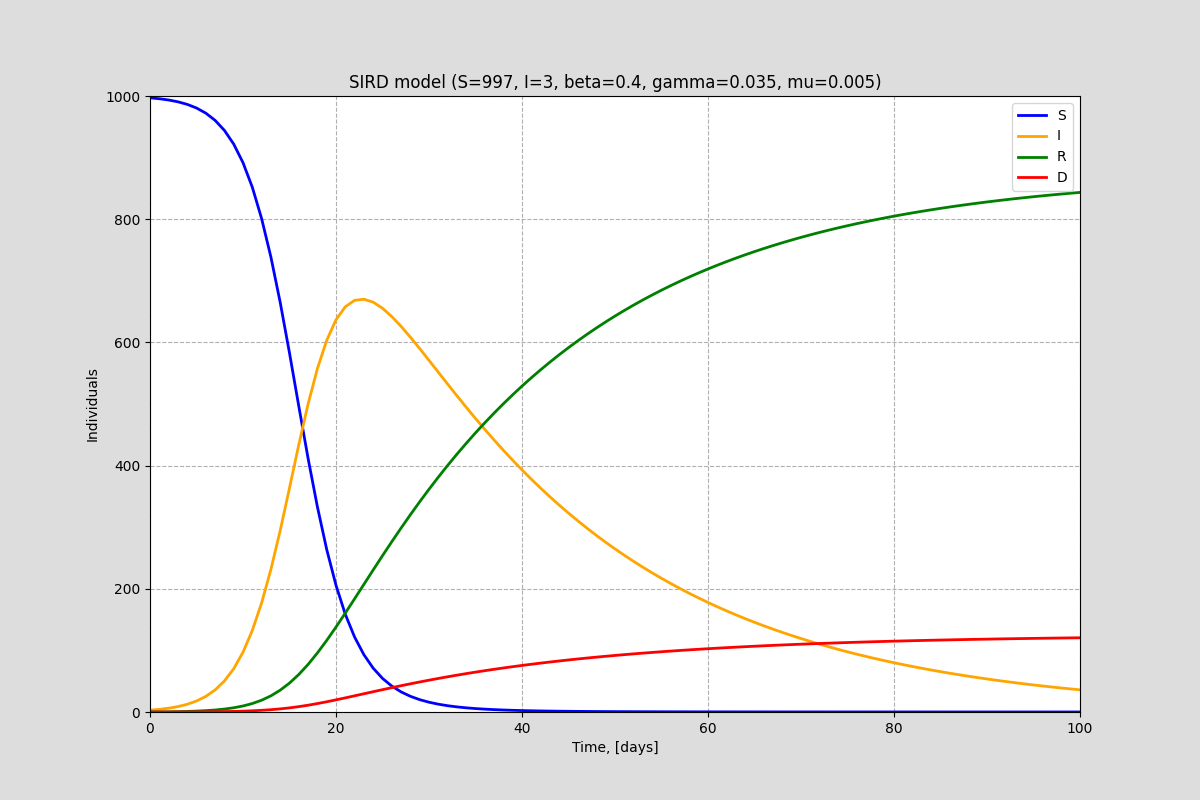
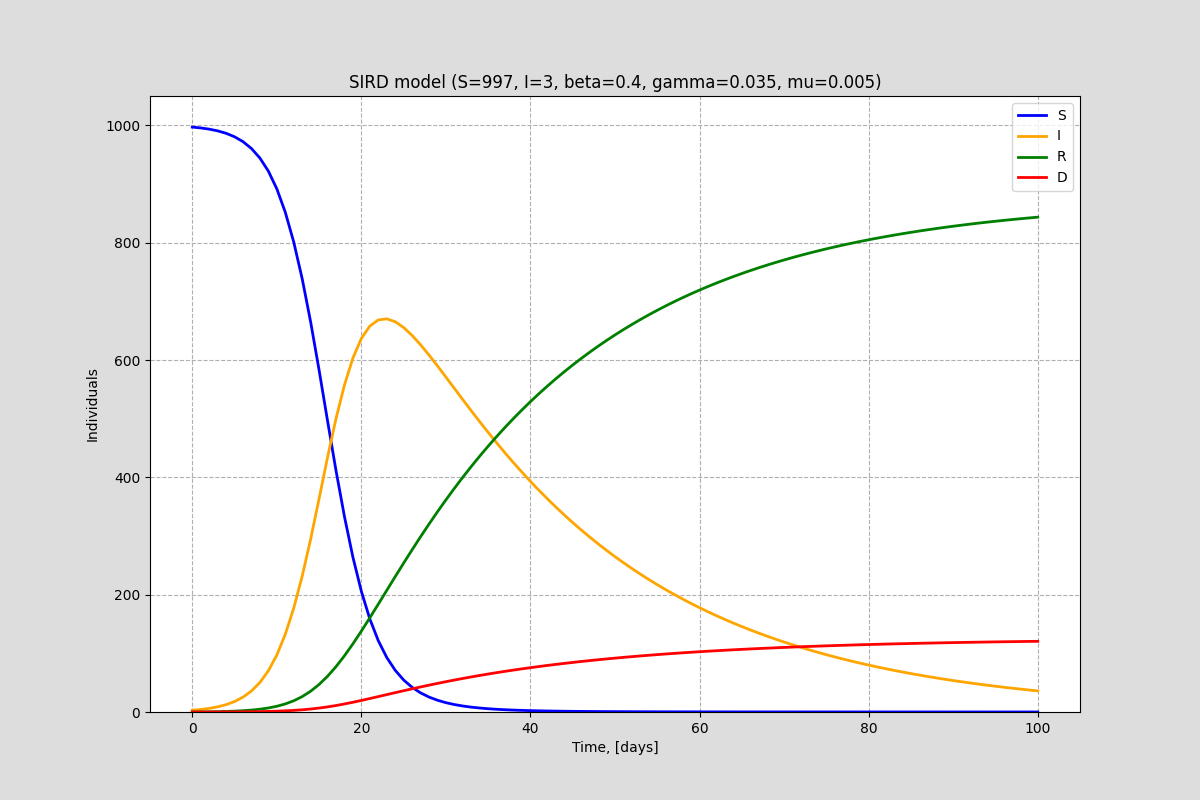
Add files via upload

diff --git a/SIR/SIRD-epidemic-model.py b/SIR/SIRD-epidemic-model.py
@@ -1,0 +1,56 @@
+"""
+SIRD: Susceptible-Infected-Recovered-Deceased
+"""
+
+import numpy as np
+import matplotlib.pyplot as plt
+from scipy.integrate import solve_ivp
+
+N = 1000 # population size
+I0 = 3 # initial infected people
+R0 = 0 # initial recovered
+D0 = 0 # initial deceased
+S0 = N-I0-R0-D0 # 997 at the beginning
+
+beta = 0.4 # infection rate, 4 person out of 10 gets infected
+gamma = 0.035 # rates of recovery, 35 person out of 1000 gets recovery
+mu = 0.005 # rates of mortality, 5 person out of 1000 dies
+
+tmax = 100 # grid of one hundred days
+Nt = 100
+t_eval = np.linspace(0,tmax,Nt+1)
+
+#define the ODE
+def diff_equation(t,y,beta,gamma,mu):
+	S,I,R,D = y
+	dSdt = -beta*I*S/N
+	dIdt = beta*I*S/N - gamma*I - mu*I
+	dRdt = gamma*I
+	dDdt = mu*I
+	return np.array([dSdt,dIdt,dRdt,dDdt])
+
+Y0 = S0,I0,R0,D0 # initial conditions
+
+# solve the ODE using runge-kutta of order 5
+sol = solve_ivp(diff_equation,
+	[0,tmax],
+	Y0,
+	method="RK45",
+	args=(beta,gamma,mu),
+	t_eval=t_eval)
+print(sol)
+
+# plotting the solution
+plt.figure(facecolor = "#dddddd",figsize=(12,8))
+plt.title("SIRD model (S=997, I=3, beta=0.4, gamma=0.035, mu=0.005)")
+plt.grid(linestyle="--")
+plt.plot(sol.t,sol.y[0],color="blue",lw=2,label="S")
+plt.plot(sol.t,sol.y[1],color="orange",lw=2,label="I")
+plt.plot(sol.t,sol.y[2],color="green",lw=2,label="R")
+plt.plot(sol.t,sol.y[3],color="red",lw=2,label="D")
+plt.xlabel("Time, [days]")
+plt.ylabel("Individuals")
+plt.ylim([0,N+50])
+plt.legend()
+plt.savefig("SIRD_RK45.png")
+plt.show()

diff --git a/SIR/SIR-Epidemic-Model.py b/SIR/SIR-Epidemic-Model.py
@@ -1,0 +1,50 @@
+# SIR epidemic model
+# Runge-Kutta 5(4) solver
+
+import numpy as np
+import matplotlib.pyplot as plt
+from scipy import integrate
+
+N = 1000 # number of population
+I0, R0 = 1., 0 # initial number of infected and recovered individual
+S0 = N - I0 - R0 # susceptible individuals to infection initially is deduced
+beta = 0.4 # infection rate
+gamma = 0.1 # recovery rate
+tmax = 100 # grid of time points (in days)
+Nt = 100
+t = np.linspace(0,tmax,Nt+1)
+
+# define the ODE
+def diff_equation(t,X,beta,gamma):
+	S, I, R = X
+	dSdt = -beta*S*I/N 
+	dIdt = beta*S*I/N - gamma * I
+	dRdt = gamma * I
+	return np.array([dSdt, dIdt, dRdt])
+
+X0 = S0, I0, R0 # initial conditions
+
+# Explicit Runge-Kutta 5(4) solver
+solrk45 = integrate.solve_ivp(
+	diff_equation,
+	[0, tmax],
+	X0,
+	method="RK45",
+	args=(beta,gamma),
+	t_eval=t)
+print(solrk45)
+
+# plotting
+plt.figure(facecolor = "#dddddd", figsize=(12,8))
+plt.title("SIR Model: Explicit Runge-Kutta 5(4)")
+plt.grid()
+plt.plot(solrk45.t, solrk45.y[0], "orange", lw=2, label="S")
+plt.plot(solrk45.t, solrk45.y[1], "r", lw=2, label="I")
+plt.plot(solrk45.t, solrk45.y[2], "g", lw=2, label="R")
+plt.xlabel("Time t, [days]")
+plt.ylabel("Numbers of individuals")
+plt.ylim([0,N+100])
+plt.legend()
+plt.savefig("SIR_RK45.pdf"); plt.savefig("SIR_RK45.png")
+plt.show()
+
